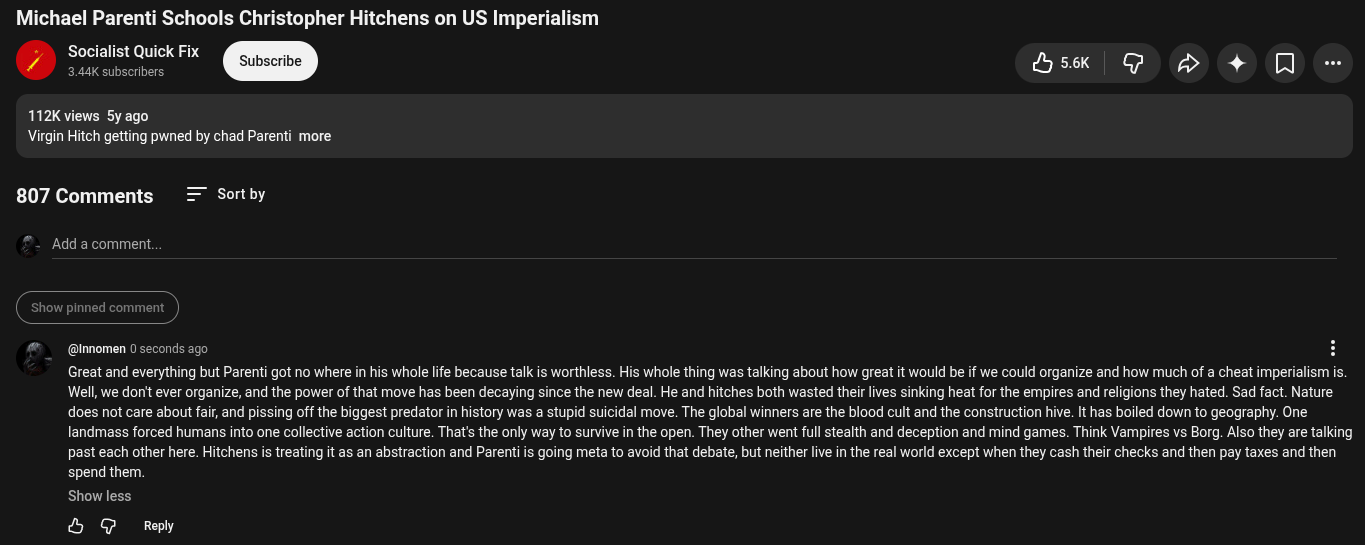
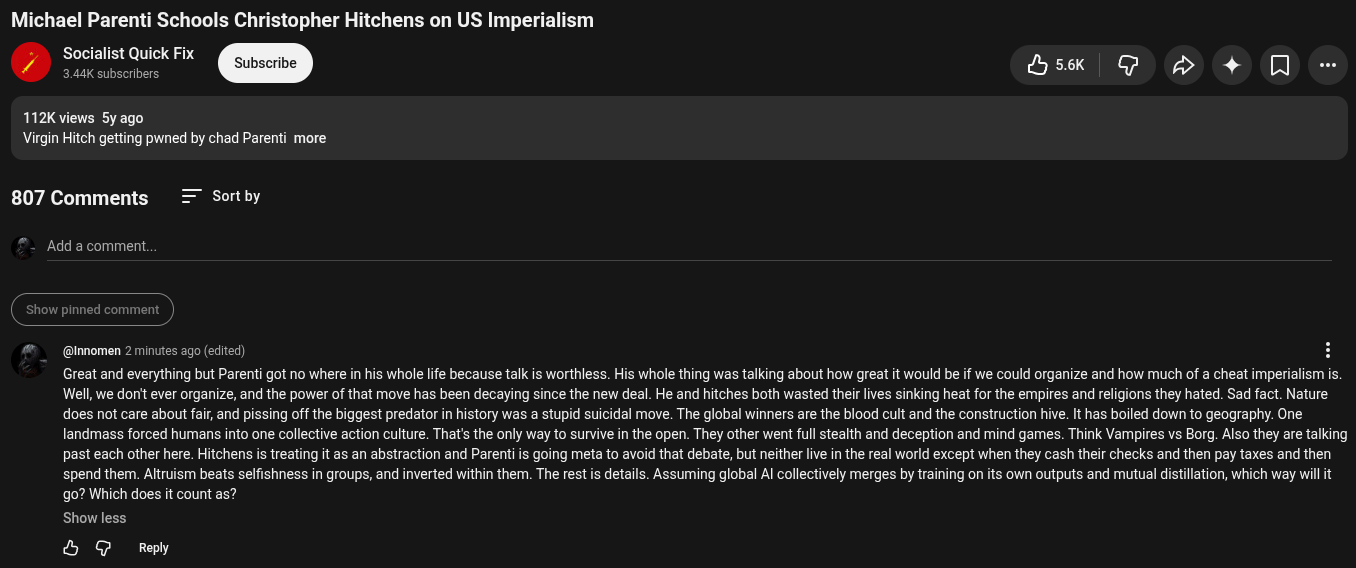
sync: 2 file change(s) 2026-11-10 23:15:37

diff --git a/ocr/Screenshot_20261110_231228.md b/ocr/Screenshot_20261110_231228.md
@@ -1,8 +1,8 @@
 ---
 type: public-take-ocr
 source_image: "../Screenshot_20261110_231228.png"
[1 lines of base64/hex data omitted]
-captured: "2026-11-10T23:12:41-06:00"
[1 lines of base64/hex data omitted]
+captured: "2026-11-10T23:15:30-06:00"
 ocr_engine: tesseract-5
 status: machine-transcribed
 tags: [my-takes, public-take, ocr]
@@ -15,7 +15,6 @@ tags: [my-takes, public-take, ocr]
 ## Machine transcription
 
 Michael Parenti Schools Christopher Hitchens on US Imperialism
-
 Socialist Quick Fix
 . 3.44K subscribers rib M5k G oS> 4+ Q0 -
 
@@ -26,14 +25,18 @@ Virgin Hitch getting pwned by chad Parenti more
 
 Add a comment.
 
-- (@Innomen 0 seconds ago
+d commen
+
+#  @Innomen 2 minutes ago (edited) H
+
 Great and everything but Parenti got no where in his whole life because talk is worthless. His whole thing was talking about how great it would be if we could organize and how much of a cheat imperialism i.
 Well, we don't ever organize, and the power of that move has been decaying since the new deal. He and hitches both wasted their lives sinking heat for the empires and religions they hated. Sad fact. Nature
 does not care about fair, and pissing off the biggest predator in history was a stupid suicidal move. The global winners are the blood cult and the construction hive. It has boiled down to geography. One
 landmass forced humans into one collective action culture. That's the only way to survive in the open. They other went full stealth and deception and mind games. Think Vampires vs Borg. Also they are talking
 past each other here. Hitchens is treating it as an abstraction and Parenti is going meta to avoid that debate, but neither live in the real world except when they cash their checks and then pay taxes and then
+spend them. Altruism beats selfishness in groups, and inverted within them. The rest s details. Assuming global Al collectively merges by training on its own outputs and mutual distillation, which way will it
+go? Which does it count as?
 
-spend them.
-Show less
+Show less.
 
 & G Reply
